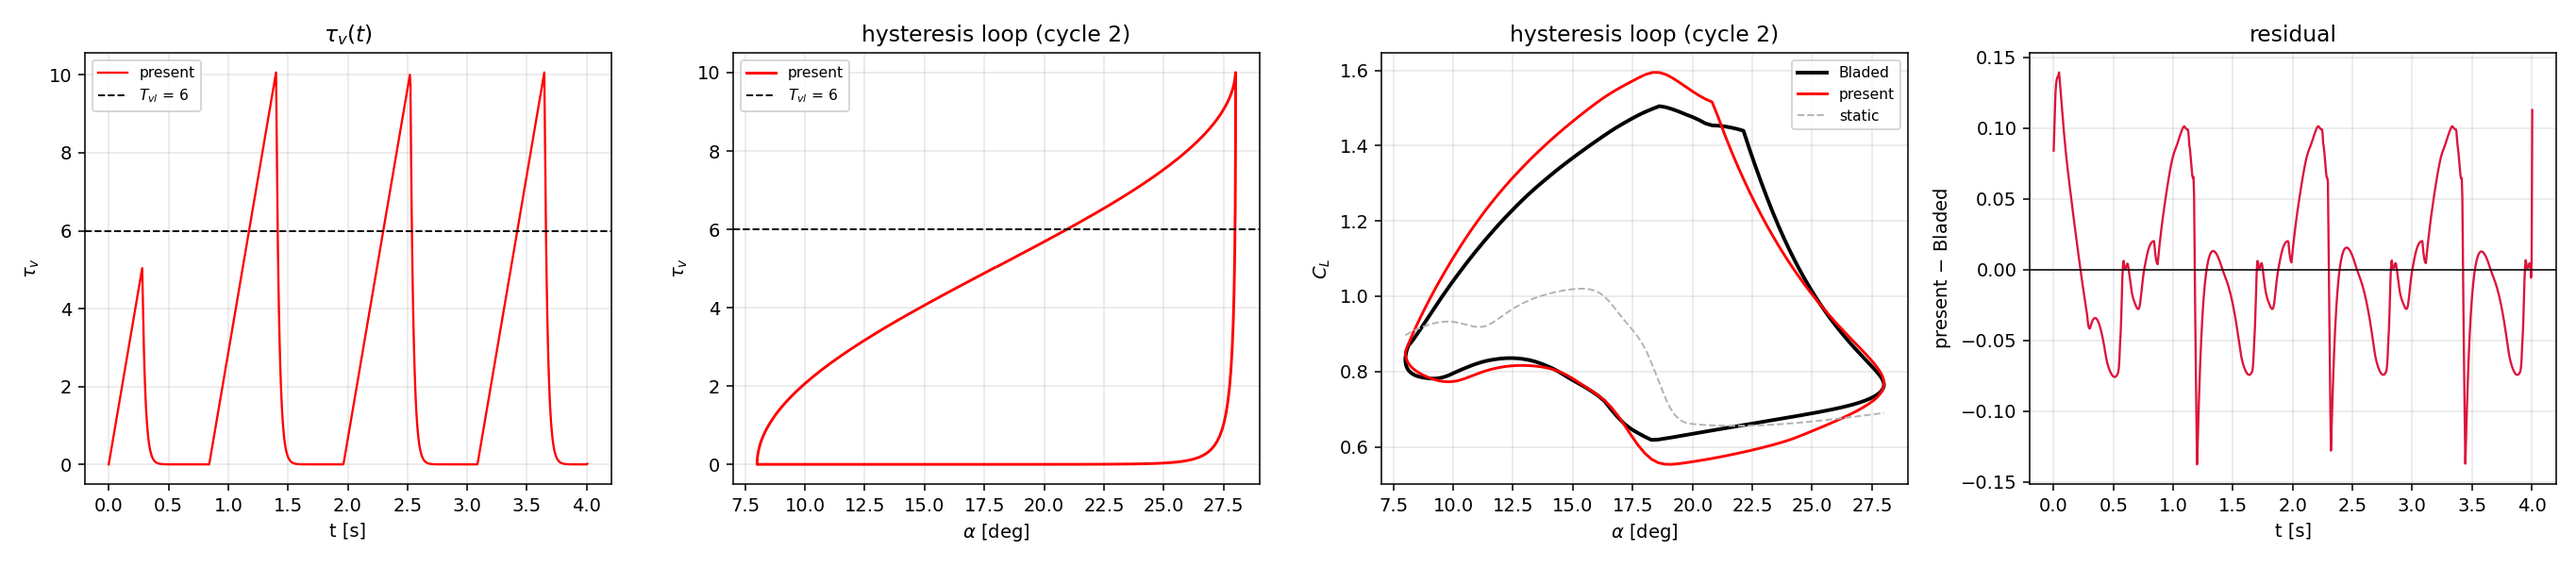
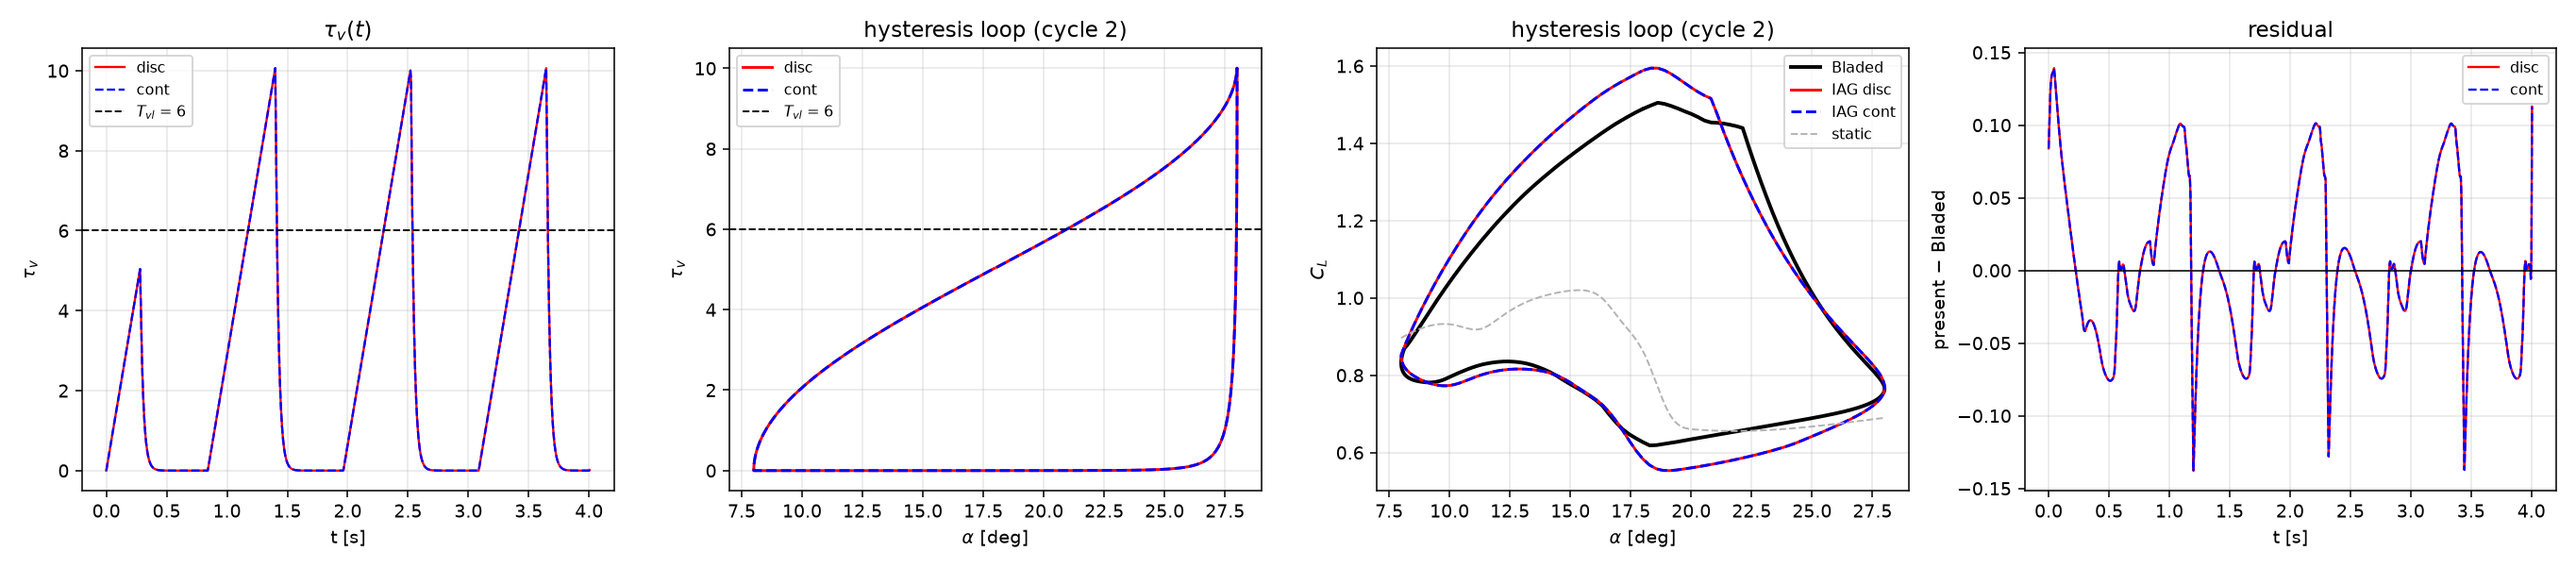
oscillator update

diff --git a/oscillator.py b/oscillator.py
@@ -1,15 +1,16 @@
 """Single-DOF blade oscillator coupled to a dynamic stall model.
 
-    m*xdd + c*xd + k1*x + k3*x^3 = F_y
+    m*ydd + c*yd + k1*y + k3*y^3 = F_y
 
-    U_x = U*cos(alpha_mean)          U_y = U*sin(alpha_mean)
-    alpha = arctan((U_y - xd)/U_x)   V_rel = sqrt(U_x^2 + (U_y - xd)^2)
+    U_x = U*cos(alpha_mean)            U_y = U*sin(alpha_mean)
+    alpha = arctan2(U_y - yd, U_x)    V_rel = hypot(U_x, U_y - yd)
     F_y   = 0.5*rho*V_rel^2*chord*(C_L*cos(alpha) + C_D*sin(alpha))
-
 """
 
 import numpy as np
 from input import Params, DEG
+from oye import Oye
+from IAG import IAG
 
 
 class Oscillator:
@@ -18,63 +19,76 @@ class Oscillator:
         self.aero = aero
         self.n = 2 + aero.n_states
 
-    def kinematics(self, xd):
+    def kinematics(self, yd):
         p = self.p
         Ux = p.U * np.cos(p.alpha_mean)
         Uy = p.U * np.sin(p.alpha_mean)
-        alpha = np.arctan2(Uy - xd, Ux)
-        V = np.hypot(Ux, Uy - xd)
-        return alpha, V
+        w = Uy - yd
+        V = np.hypot(Ux, w)
+        return np.arctan2(w, Ux), V, -Ux / V ** 2
 
-    def y0(self, x0=1e-3, xd0=0.0):
-        a, V = self.kinematics(xd0)
-        return np.concatenate([[x0, xd0], self.aero.y0(a, V)])
+    def state(self, y=0.0, yd=0.0):
+        """Assemble s, with the aerodynamic block steady at (alpha, V_rel)."""
+        a, V, _ = self.kinematics(yd)
+        return np.concatenate([[y, yd], self.aero.y0(float(a), float(V))])
 
-    def rhs(self, y):
+    def rhs(self, s, ydd_lag=0.0):
         p = self.p
-        x, xd = y[0], y[1]
-        ya = y[2:]
-        alpha, V = self.kinematics(xd)
-        cl, cd = self.aero.coeffs(ya, alpha, 0.0, V)
-        F = 0.5 * p.rho * V ** 2 * p.chord * (cl * np.cos(alpha) + cd * np.sin(alpha))
-        xdd = (F - p.c_damp * xd - p.k1 * x - p.k3 * x ** 3) / p.mass
-        return np.concatenate([[xd, xdd], self.aero.rhs(ya, alpha, 0.0, V)])
+        y, yd = float(s[0]), float(s[1])
+        ya = s[2:]
+        a, V, da = self.kinematics(yd)
+        a, V, ad = float(a), float(V), float(da) * ydd_lag
+        cl, cd = self.aero.coeffs(ya, a, ad, V)
+        F = 0.5 * p.rho * V ** 2 * p.chord * (cl * np.cos(a) + cd * np.sin(a))
+        ydd = (F - p.c_damp * yd - p.k1 * y - p.k3 * y ** 3) / p.mass
+        return np.concatenate([[yd, ydd], self.aero.rhs(ya, a, ad, V)])
 
-    def run(self, x0=1e-3, xd0=0.0, t_end=None, dt=None):
+    def run(self, s_init, t_end=None, dt=None, picard=1):
         p = self.p
         t_end = p.t_end if t_end is None else t_end
         dt = p.dt if dt is None else dt
         n = int(t_end / dt)
         t = np.arange(n) * dt
-        X = np.zeros((n, self.n))
-        y = self.y0(x0, xd0)
+        S = np.zeros((n, self.n))
+        A = np.zeros(n)
+        s = np.asarray(s_init, float).copy()
+        lag = 0.0
         for i in range(n):
-            X[i] = y
-            k1 = self.rhs(y)
-            k2 = self.rhs(y + dt / 2 * k1)
-            k3 = self.rhs(y + dt / 2 * k2)
-            k4 = self.rhs(y + dt * k3)
-            y = y + dt / 6 * (k1 + 2 * k2 + 2 * k3 + k4)
-        return t, X
-
-    @staticmethod
-    def amplitude(x, frac=0.5):
-        """Half peak-to-peak over the last `frac` of the series."""
-        s = x[int(len(x) * (1 - frac)):]
-        return 0.5 * (s.max() - s.min())
+            S[i] = s
+            f1 = self.rhs(s, lag)
+            for _ in range(picard):
+                lag = float(f1[1])
+                f1 = self.rhs(s, lag)
+            A[i] = lag
+            f2 = self.rhs(s + dt / 2 * f1, lag)
+            f3 = self.rhs(s + dt / 2 * f2, lag)
+            f4 = self.rhs(s + dt * f3, lag)
+            s = s + dt / 6 * (f1 + 2 * f2 + 2 * f3 + f4)
+            lag = float(f1[1])
+        return t, S, A
 
 
 if __name__ == "__main__":
-    from oye import Oye
 
     p = Params()
-    print(f"alpha_mean {p.alpha_mean/DEG:.1f} deg,  zeta {p.zeta},  k3 {p.k3:.0f}\n")
-    print(f"{'U [m/s]':>8} {'amplitude [mm]':>16} {'alpha range [deg]':>22}")
-    for U in (3, 4, 6, 8):
-        p.U = U
-        osc = Oscillator(p, Oye(p.polar, p.chord, p.T_f))
-        t, X = osc.run(t_end=30.0, dt=1e-3)
-        A = osc.amplitude(X[:, 0]) * 1e3
-        a, _ = osc.kinematics(X[len(X)//2:, 1])
-        print(f"{U:8.1f} {A:16.4f} {a.min()/DEG:14.2f} .. {a.max()/DEG:.2f}")
-    print("\n(short 30 s runs -- lengthen t_end for converged limit cycles)")
+    p.U = 4.0
+    models = {"Oye": Oye(p.polar, p.chord, p.T_f), "IAG": IAG(p.polar, p.chord)}
+
+    print(f"alpha_mean {p.alpha_mean/DEG:.1f} deg,  U {p.U} m/s,  "
+          f"zeta {p.zeta},  k3 {p.k3:.0f},  y(0) 1 mm,  t_end 20 s\n")
+
+    for name, aero in models.items():
+        osc = Oscillator(p, aero)
+        t, S, A = osc.run(osc.state(y=1e-3), t_end=20.0, dt=1e-3)
+        a, V, da_dyd = osc.kinematics(S[:, 1])
+        ad = da_dyd * A
+        print(f"{name}:  {osc.n} states {aero.names}")
+        print(f"  finite            {np.isfinite(S).all()}")
+        print(f"  y      [mm]       {S[:, 0].min()*1e3:8.3f} .. {S[:, 0].max()*1e3:8.3f}")
+        print(f"  alpha  [deg]      {a.min()/DEG:8.3f} .. {a.max()/DEG:8.3f}")
+        print(f"  V_rel  [m/s]      {V.min():8.3f} .. {V.max():8.3f}")
+        print(f"  alpha_dot [deg/s] {ad.min()/DEG:8.3f} .. {ad.max()/DEG:8.3f}")
+        if osc.n > 3:
+            print(f"  vortex x5, x6 max {S[:, 6].max():.4g}, {S[:, 7].max():.4g}"
+                  f"   (zero means alpha_dot never reached the gate)")
+        print()

diff --git a/mainiag.py b/mainiag.py
@@ -4,8 +4,8 @@ import matplotlib
 import matplotlib.pyplot as plt
 
 from input import Params, DEG
-from IAG_Continuous import IAG
-# from IAG_DisContinuous import IAG
+from IAG_Continuous import IAG as IAG_C
+from IAG_DisContinuous import IAG as IAG_D
 from motion import Motion
 from integrator import rk4
 from error import error
@@ -21,40 +21,56 @@ p = Params()
 print(f"reference: {len(t)} samples, {t[-1]/PERIOD:.2f} cycles, "
       f"alpha {alpha.min()/DEG:.0f}..{alpha.max()/DEG:.0f} deg\n")
 
-model = IAG(p.polar, CHORD)
-r = rk4(model, motion)
-e = error(t, r["C_L"], cl_ref, PERIOD)
+model_d = IAG_D(p.polar, CHORD)
+r_d = rk4(model_d, motion)
+e_d = error(t, r_d["C_L"], cl_ref, PERIOD)
 
-print(f"IAG,  T_p {IAG.T_p}  T_f {IAG.T_f}  T_v {IAG.T_v}   (cycle {e['cycle']})")
-print(f"  RMS      {e['rms']:.5f}   ({e['pct']:.2f} % of C_L range)")
-print(f"  max err  {e['max']:.4f}")
-print(f"  Cl_max   {e['cl_max']:.4f}  vs {e['cl_max_ref']:.4f} Bladed")
-print(f"  Cl_min   {e['cl_min']:.4f}  vs {e['cl_min_ref']:.4f} Bladed")
+model_c = IAG_C(p.polar, CHORD)
+r_c = rk4(model_c, motion)
+e_c = error(t, r_c["C_L"], cl_ref, PERIOD)
+
+print(f"IAG disc,  T_p {IAG_D.T_p}  T_f {IAG_D.T_f}  T_v {IAG_D.T_v}   (cycle {e_d['cycle']})")
+print(f"  RMS      {e_d['rms']:.5f}   ({e_d['pct']:.2f} % of C_L range)")
+print(f"  max err  {e_d['max']:.4f}")
+print(f"  Cl_max   {e_d['cl_max']:.4f}  vs {e_d['cl_max_ref']:.4f} Bladed")
+print(f"  Cl_min   {e_d['cl_min']:.4f}  vs {e_d['cl_min_ref']:.4f} Bladed")
+
+print(f"\nIAG cont,  T_p {IAG_C.T_p}  T_f {IAG_C.T_f}  T_v {IAG_C.T_v}   (cycle {e_c['cycle']})")
+print(f"  RMS      {e_c['rms']:.5f}   ({e_c['pct']:.2f} % of C_L range)")
+print(f"  max err  {e_c['max']:.4f}")
+print(f"  Cl_max   {e_c['cl_max']:.4f}  vs {e_c['cl_max_ref']:.4f} Bladed")
+print(f"  Cl_min   {e_c['cl_min']:.4f}  vs {e_c['cl_min_ref']:.4f} Bladed")
 
 # the vortex state is the whole reason IAG differs from Oye -- check it fires
-print(f"\n  x5 (vortex C_N) range {r['x5'].min():+.4f} .. {r['x5'].max():+.4f}")
+print(f"\n  x5 (vortex C_N) range disc {r_d['x5'].min():+.4f} .. {r_d['x5'].max():+.4f}"
+      f"   cont {r_c['x5'].min():+.4f} .. {r_c['x5'].max():+.4f}")
 
+e = e_d
 m = (t >= e["cycle"] * PERIOD) & (t < (e["cycle"] + 1) * PERIOD)
 fig, ax = plt.subplots(1, 4, figsize=(19.5, 4.3))
 
 
-ax[0].plot(t, r["tau_v"], "r-", lw=1.2, label="present")
-ax[0].axhline(IAG.T_vl, color="k", ls="--", lw=1, label=rf"$T_{{vl}}$ = {IAG.T_vl:g}")
+ax[0].plot(t, r_d["tau_v"], "r-", lw=1.2, label="disc")
+ax[0].plot(t, r_c["tau_v"], "b--", lw=1.2, label="cont")
+ax[0].axhline(IAG_D.T_vl, color="k", ls="--", lw=1, label=rf"$T_{{vl}}$ = {IAG_D.T_vl:g}")
 ax[0].set_xlabel("t [s]"); ax[0].set_ylabel(r"$\tau_v$"); ax[0].set_title(r"$\tau_v(t)$")
 
-ax[1].plot(alpha[m]/DEG, r["tau_v"][m], "r-", lw=1.5, label="present")
-ax[1].axhline(IAG.T_vl, color="k", ls="--", lw=1, label=rf"$T_{{vl}}$ = {IAG.T_vl:g}")
+ax[1].plot(alpha[m]/DEG, r_d["tau_v"][m], "r-", lw=1.5, label="disc")
+ax[1].plot(alpha[m]/DEG, r_c["tau_v"][m], "b--", lw=1.5, label="cont")
+ax[1].axhline(IAG_D.T_vl, color="k", ls="--", lw=1, label=rf"$T_{{vl}}$ = {IAG_D.T_vl:g}")
 ax[1].set_xlabel(r"$\alpha$ [deg]"); ax[1].set_ylabel(r"$\tau_v$")
 ax[1].set_title(f"hysteresis loop (cycle {e['cycle']})")
 
 aa = np.linspace(8, 28, 300) * DEG
 ax[2].plot(alpha[m]/DEG, cl_ref[m], "k-", lw=2, label="Bladed")
-ax[2].plot(alpha[m]/DEG, r["C_L"][m], "r-", lw=1.5, label="present")
+ax[2].plot(alpha[m]/DEG, r_d["C_L"][m], "r-", lw=1.5, label="IAG disc")
+ax[2].plot(alpha[m]/DEG, r_c["C_L"][m], "b--", lw=1.5, label="IAG cont")
 ax[2].plot(aa/DEG, p.polar.cl(aa), color="0.7", ls="--", lw=1, label="static")
 ax[2].set_xlabel(r"$\alpha$ [deg]"); ax[2].set_ylabel("$C_L$")
 ax[2].set_title(f"hysteresis loop (cycle {e['cycle']})")
 
-ax[3].plot(t, r["C_L"] - cl_ref, color="crimson", lw=1.2)
+ax[3].plot(t, r_d["C_L"] - cl_ref, color="r", lw=1.2, label="disc")
+ax[3].plot(t, r_c["C_L"] - cl_ref, color="b", ls="--", lw=1.2, label="cont")
 ax[3].axhline(0, color="k", lw=.8)
 ax[3].set_xlabel("t [s]"); ax[3].set_ylabel("present $-$ Bladed"); ax[3].set_title("residual")
 
@@ -62,7 +78,6 @@ plt.plot()
 
 for a_ in ax:
     a_.grid(alpha=.3)
-    if a_ is not ax[3]:
-        a_.legend(fontsize=8)
+    a_.legend(fontsize=8)
 plt.tight_layout(); plt.savefig("fig_verify_iag.png", dpi=140)
 print("\n  -> fig_verify_iag.png")

diff --git a/oscillator copy.py b/oscillator copy.py
@@ -1,0 +1,79 @@
+"""Single-DOF blade oscillator coupled to a dynamic stall model.
+
+    m*xdd + c*xd + k1*x + k3*x^3 = F_y
+
+    U_x = U*cos(alpha_mean)          U_y = U*sin(alpha_mean)
+    alpha = arctan((U_y - xd)/U_x)   V_rel = sqrt(U_x^2 + (U_y - xd)^2)
+    F_y   = 0.5*rho*V_rel^2*chord*(C_L*cos(alpha) + C_D*sin(alpha))
+
+"""
+
+import numpy as np
+from input import Params, DEG
+from IAG import IAG 
+
+
+class Oscillator:
+    def __init__(self, params: Params, aero):
+        self.p = params
+        self.aero = aero
+        self.n = 2 + aero.n_states
+
+    def kinematics(self, xd):
+        p = self.p
+        Ux = p.U * np.cos(p.alpha_mean)
+        Uy = p.U * np.sin(p.alpha_mean)
+        alpha = np.arctan2(Uy - xd, Ux)
+        V = np.hypot(Ux, Uy - xd)
+        return alpha, V
+
+    def y0(self, x0=1e-3, xd0=0.0):
+        a, V = self.kinematics(xd0)
+        return np.concatenate([[x0, xd0], self.aero.y0(a, V)])
+
+    def rhs(self, y):
+        p = self.p
+        x, xd = y[0], y[1]
+        ya = y[2:]
+        alpha, V = self.kinematics(xd)
+        cl, cd = self.aero.coeffs(ya, alpha, 0.0, V)
+        F = 0.5 * p.rho * V ** 2 * p.chord * (cl * np.cos(alpha) + cd * np.sin(alpha))
+        xdd = (F - p.c_damp * xd - p.k1 * x - p.k3 * x ** 3) / p.mass
+        return np.concatenate([[xd, xdd], self.aero.rhs(ya, alpha, 0.0, V)])
+
+    def run(self, x0=1e-3, xd0=0.0, t_end=None, dt=None):
+        p = self.p
+        t_end = p.t_end if t_end is None else t_end
+        dt = p.dt if dt is None else dt
+        n = int(t_end / dt)
+        t = np.arange(n) * dt
+        X = np.zeros((n, self.n))
+        y = self.y0(x0, xd0)
+        for i in range(n):
+            X[i] = y
+            k1 = self.rhs(y)
+            k2 = self.rhs(y + dt / 2 * k1)
+            k3 = self.rhs(y + dt / 2 * k2)
+            k4 = self.rhs(y + dt * k3)
+            y = y + dt / 6 * (k1 + 2 * k2 + 2 * k3 + k4)
+        return t, X
+
+    @staticmethod
+    def amplitude(x, frac=0.5):
+        s = x[int(len(x) * (1 - frac)):]
+        return 0.5 * (s.max() - s.min())
+
+
+if __name__ == "__main__":
+
+    p = Params()
+    print(f"alpha_mean {p.alpha_mean/DEG:.1f} deg,  zeta {p.zeta},  k3 {p.k3:.0f}\n")
+    print(f"{'U [m/s]':>8} {'amplitude [mm]':>16} {'alpha range [deg]':>22}")
+    for U in (3, 4, 6, 8):
+        p.U = U
+        osc = Oscillator(p, IAG(p.polar, p.chord))
+        t, X = osc.run(t_end=30.0, dt=1e-3)
+        A = osc.amplitude(X[:, 0]) * 1e3
+        a, _ = osc.kinematics(X[len(X)//2:, 1])
+        print(f"{U:8.1f} {A:16.4f} {a.min()/DEG:14.2f} .. {a.max()/DEG:.2f}")
+    print("\n(short 30 s runs -- lengthen t_end for converged limit cycles)")
